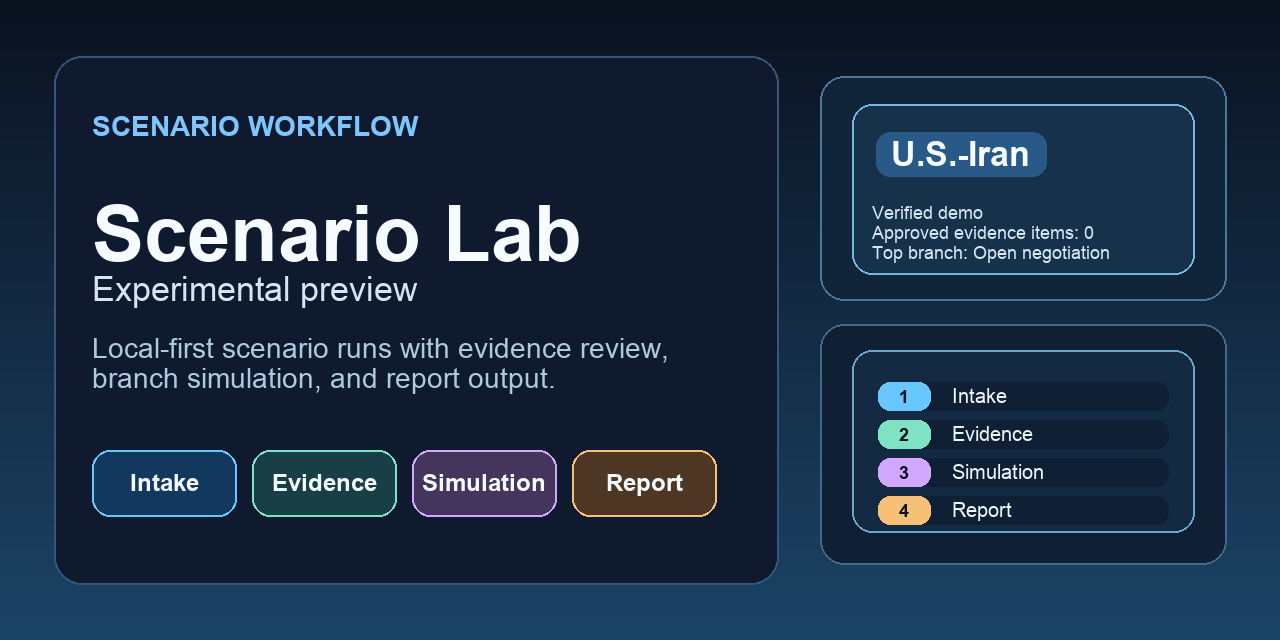
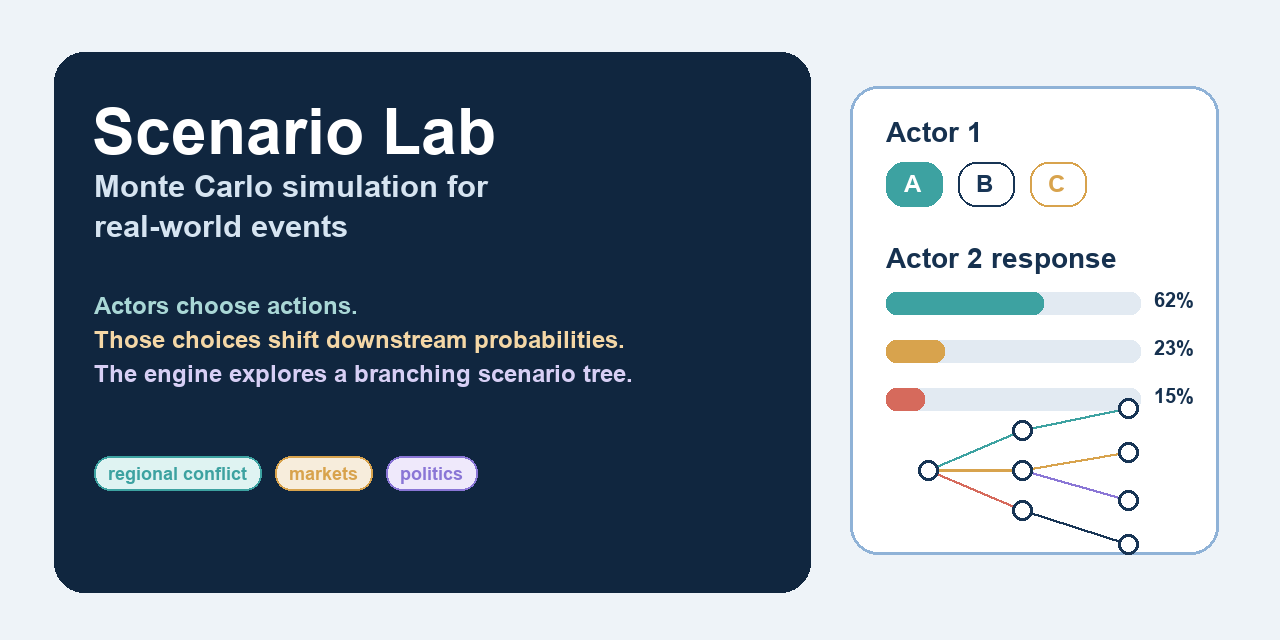
docs: rework scenario lab hero surface

diff --git a/README.md b/README.md
@@ -1,8 +1,8 @@
 # Scenario Lab
 
-> Experimental preview: local-first scenario analysis you can run in natural language with Codex or Claude.
+> Experimental preview: Monte Carlo simulation for real-world events you can run locally with Codex or Claude.
 
-Scenario Lab helps you turn a developing situation into a structured scenario run, gather and approve evidence, simulate multiple branches, and generate readable reports.
+Scenario Lab is a Monte Carlo simulation engine for real-world events such as regional conflict, markets, and politics.
 
 ![Scenario Lab workflow](docs/assets/scenario-lab-workflow.png)
 
